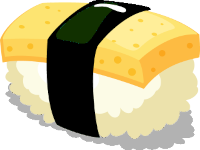
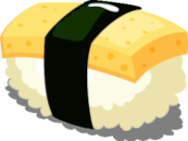
Added picture tag for images

diff --git a/index.html b/index.html
@@ -18,9 +18,9 @@
         <div class="hero mw">
           <div class="hero__image">
             <picture>
-              <source srcset="assets/images/sushi-large@2x.png" media="(min-width: 64rem)" />
-              <source srcset="assets/images/sushi-small@2x.png" />
-              <img src="assets/images/sushi.png" width="480" height="497" alt="" />
+              <source srcset="assets/images/sushi-large.png, assets/images/sushi-large@2x.png 2x" media="(min-width: 64rem)" />
+              <source srcset="assets/images/sushi-small.png, assets/images/sushi-small@2x.png 2x" />
+              <img src="assets/images/sushi-small.png" width="480" height="497" alt="" />
             </picture>
             <span>日<br />本<br />食</span>
           </div>
@@ -55,16 +55,18 @@
           </div>
           <div class="about__images">
             <div class="tuna">
-              <div>
+              <picture>
+                <source srcset="assets/images/tuna.png, assets/images/tuna@2x.png 2x" />
                 <img src="assets/images/tuna.png" width="188" height="168" alt="tuna" />
-              </div>
+              </picture>
               <div>ツ<br />ナ</div>
             </div>
             <div class="shrimp">
               <div>エ<br />ビ</div>
-              <div>
-                <img src="assets/images/shrimp.png" width="188" height="125" alt="shrimp" />
-              </div>
+              <picture>
+                <source srcset="assets/images/shrimp.png, assets/images/shrimp@2x.png 2x" />
+                <img src="assets/images/shrimp.png" width="188" height="126" alt="shripm" />
+              </picture>
             </div>
           </div>
         </div>
@@ -77,7 +79,10 @@
           </div>
           <div class="menu__cards">
             <article>
-              <img src="assets/images/chezu.png" width="200" height="150" alt="chezu sushi" />
+              <picture>
+                <source srcset="assets/images/chezu.png, assets/images/chezu@2x.png 2x" />
+                <img src="assets/images/chezu.png" width="188" height="141" alt="chezu sushi" />
+              </picture>
               <h3>Chezu Sushi</h3>
               <div class="card__content">
                 <div><span>&#127775;</span><span>4.5</span></div>
@@ -85,7 +90,10 @@
               </div>
             </article>
             <article>
-              <img src="assets/images/originale.png" width="200" height="150" alt="originale sushi" />
+              <picture>
+                <source srcset="assets/images/originale.png, assets/images/originale@2x.png 2x" />
+                <img src="assets/images/originale.png" width="188" height="141" alt="originale sushi" />
+              </picture>
               <h3>Originale Sushi</h3>
               <div class="card__content">
                 <div><span>&#127775;</span><span>4.8</span></div>
@@ -93,7 +101,10 @@
               </div>
             </article>
             <article>
-              <img src="assets/images/ramen.png" width="200" height="150" alt="ramen legendo" />
+              <picture>
+                <source srcset="assets/images/ramen.png, assets/images/ramen@2x.png 2x" />
+                <img src="assets/images/ramen.png" width="188" height="141" alt="ramen legendo" />
+              </picture>
               <h3>Ramen Legendo</h3>
               <div class="card__content">
                 <div><span>&#127775;</span><span>4.5</span></div>
@@ -105,7 +116,10 @@
         <div class="mw">
           <article class="sushies">
             <div class="sushies__image">
-              <img src="assets/images/sushies.png" width="188" height="192" alt="" />
+              <picture>
+                <source srcset="assets/images/sushies.png, assets/images/sushies@2x.png 2x" />
+                <img src="assets/images/sushies.png" width="188" height="193" alt="sushies" />
+              </picture>
               <div>寿<br />司</div>
             </div>
             <div class="sushies__content">
@@ -124,7 +138,10 @@
           <article class="drinks">
             <div class="drinks__image">
               <div>飲<br />み<br />物</div>
-              <img src="assets/images/drinks.png" width="188" height="252" alt="" />
+              <picture>
+                <source srcset="assets/images/drinks.png, assets/images/drinks@2x.png 2x" />
+                <img src="assets/images/drinks.png" width="188" height="252" alt="drinks" />
+              </picture>
             </div>
             <div class="drinks__content">
               <h3>Japanese Drinks</h3>

diff --git a/css/styles.css b/css/styles.css
@@ -66,6 +66,14 @@ picture {
   margin: 0 auto;
 }
 
+.about__images .tuna img,
+.about__images .shrimp img,
+.menu__cards article img,
+.sushies .sushies__image img,
+.drinks .drinks__image img {
+  width: 11.75rem;
+}
+
 /* Header */
 
 header {
@@ -290,11 +298,6 @@ footer div {
   flex-direction: row;
   gap: 2rem;
   padding: 2rem 1rem;
-}
-
-.sushies .sushies__image img,
-.drinks .drinks__image img {
-  width: 11.75rem;
 }
 
 .sushies .sushies__image div,
